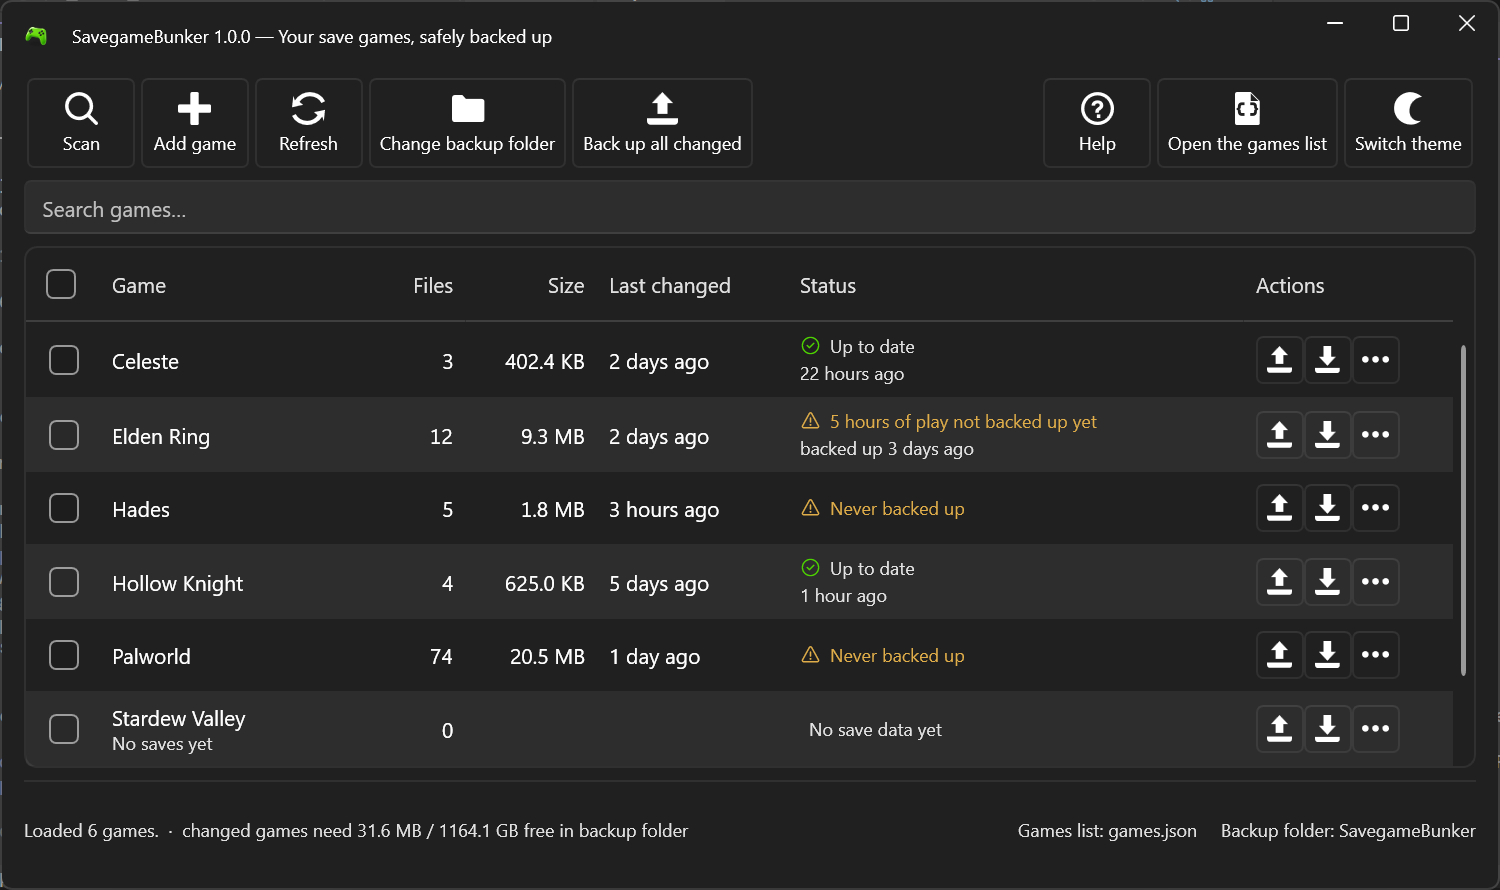
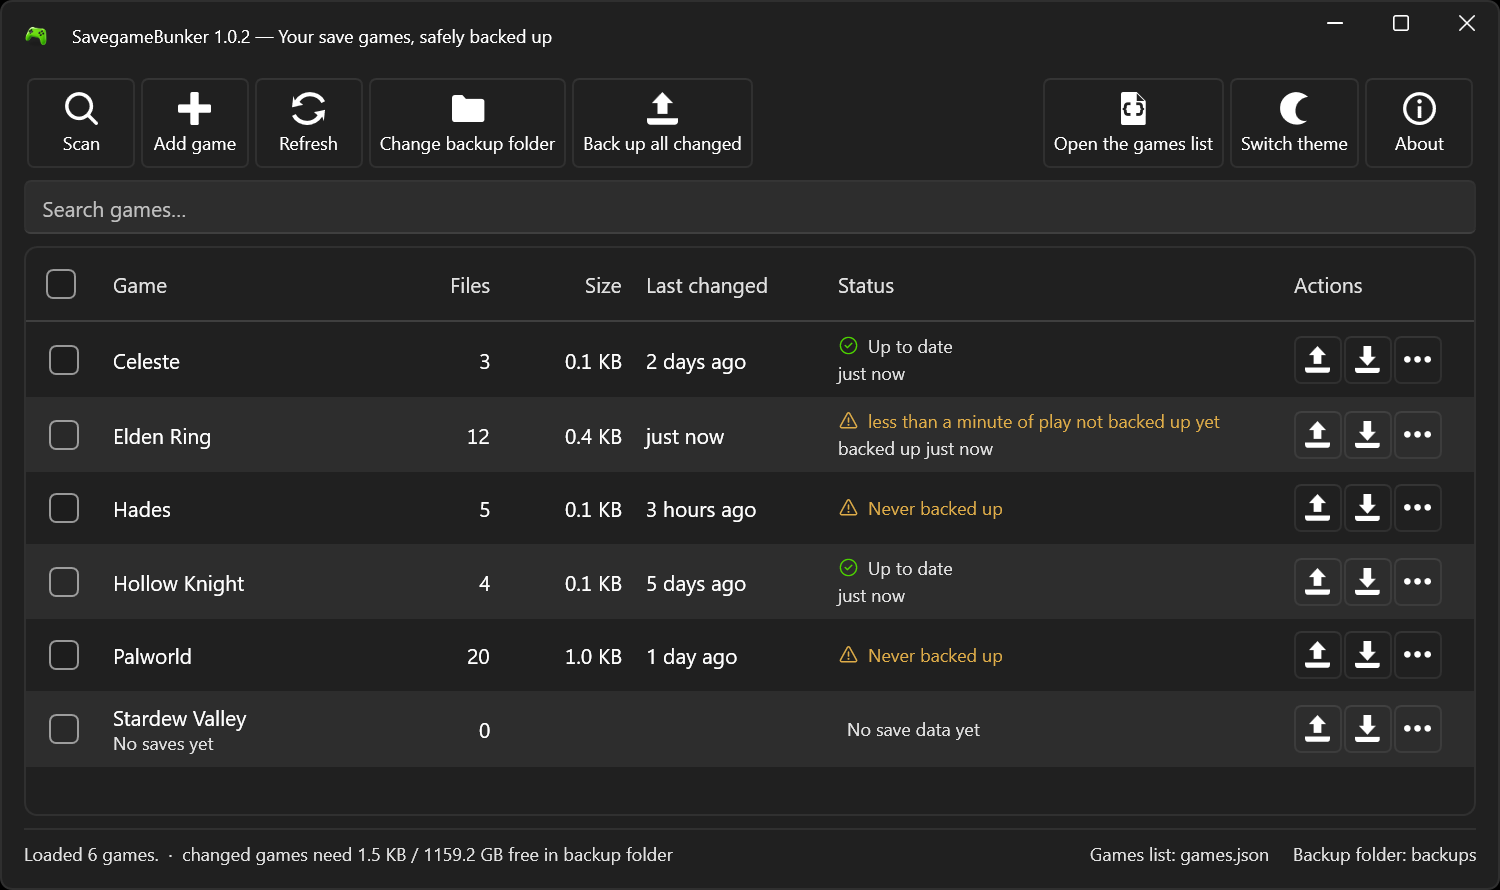
fix(ui): refresh + single-source the marketing screenshot
New screenshot (1500x890, build 1.0.2) replaces the stale 1.0.0-era
one, same six games and status spread as before. docs/screenshot.png
is now the only tracked copy — pages.yml and release.yml copy it into
each user-guide language's own docs/assets/ before their independent
Zensical builds, instead of three committed copies.

Also fixes a real layout bug the first capture exposed: each row's
overflow button rendered clipped at the window's right edge. The
Actions column was 104px (3x32px icons + 8px slack) — not enough once
the DataGrid's own padding was accounted for at the window's minimum
width. Widened to 128px with a 1px gap between the icon buttons, then
re-captured the screenshot.

Build: 0 warnings, 0 errors. Tests: 745/745 passed.

diff --git a/src/SavegameBunker/MainWindow.xaml b/src/SavegameBunker/MainWindow.xaml
@@ -600,11 +600,14 @@
                                 Pixel width, not a second star: two Width="*" columns share leftover
                                 equally, so this one would stay too narrow (and clip the overflow)
                                 until the window is huge. Game is the only star. Icons are 32px;
-                                104 covers Back up + Restore + overflow at their natural width — the
-                                progress chrome that used to share this column moved to Status
-                                (#D-status-progress), so there is no wider case left to size for.
+                                three of them need 96px — 104 was tried and measured too tight: at
+                                MinWidth (1000), the DataGrid's own padding left no slack and the
+                                overflow button's right edge rendered outside the window. 128 leaves
+                                real breathing room. The progress chrome that used to share this
+                                column moved to Status (#D-status-progress), so there is no wider
+                                case left to size for.
                             -->
-                            <DataGridTemplateColumn Width="104" Header="{DynamicResource str_grid_actions}">
+                            <DataGridTemplateColumn Width="128" Header="{DynamicResource str_grid_actions}">
                                 <DataGridTemplateColumn.CellTemplate>
                                     <DataTemplate>
                                         <!--
@@ -631,6 +634,7 @@
                                                 </Viewbox>
                                             </ui:Button>
                                             <ui:Button
+                                                Margin="1,0,0,0"
                                                 AutomationProperties.Name="{DynamicResource str_common_restore}"
                                                 Command="{Binding DataContext.RestoreCommand, RelativeSource={RelativeSource AncestorType=Window}}"
                                                 CommandParameter="{Binding}"
@@ -648,6 +652,7 @@
                                             <ui:DropDownButton
                                                 Width="32"
                                                 Height="32"
+                                                Margin="1,0,0,0"
                                                 AutomationProperties.Name="{DynamicResource str_overflow_moreActions}"
                                                 IsEnabled="{Binding IsBusy, Converter={StaticResource NotBool}}"
                                                 Style="{StaticResource IconActionButton}"

diff --git a/docs/DECISIONS.md b/docs/DECISIONS.md
@@ -33,6 +33,7 @@ behaviour; this page is the short version for anyone wondering "why doesn't it j
 | Per-row backup/restore is blocked while a bulk operation runs | A row action could otherwise run concurrently with the bulk run on the same files. |
 | A save folder the scan cannot fully read says so on its own row | Backup already warns about unreadable paths; a row whose count silently skips them would let Scan and Backup disagree about completeness. It is a per-game fact, so it goes on the row, not the status line that outcome messages own. |
 | A row's in-progress chrome (ring / determinate bar / restore bar) lives in the Status column, not Actions | A running backup or restore is a status fact about that row, not an action to trigger. The Actions column keeps only the Back up / Restore / overflow buttons, which `RowActionButton` already collapses while the row is busy. |
+| The Actions column is 128px wide, with 1px gaps between its three buttons | 104px (3×32px icons + 8px slack) measured too tight at `MinWidth` (1000): the overflow button's right edge rendered outside the window. 128px leaves real margin; the 1px gaps keep the three icon buttons from reading as one fused block. |
 
 ## Build and dependencies
 

diff --git a/CHANGELOG.md b/CHANGELOG.md
@@ -15,6 +15,10 @@ and this project adheres to [Semantic Versioning](https://semver.org/spec/v2.0.0
 
 ### Fixed
 
+- **Each row's overflow ("more actions") button no longer renders cut off at the window's right
+  edge.** The Actions column was 104px — just enough for the three 32px icon buttons in theory, but
+  too tight at the window's minimum width once real padding was accounted for. It is now 128px,
+  with a 1px gap between the icon buttons.
 - **Help now opens the online user guide if the offline copy isn't there.** A stripped install or
   a deleted `help` folder used to make the Help button report that the guide was missing; it now
   opens the same guide at https://argusloom.github.io/SavegameBunker/ instead.
